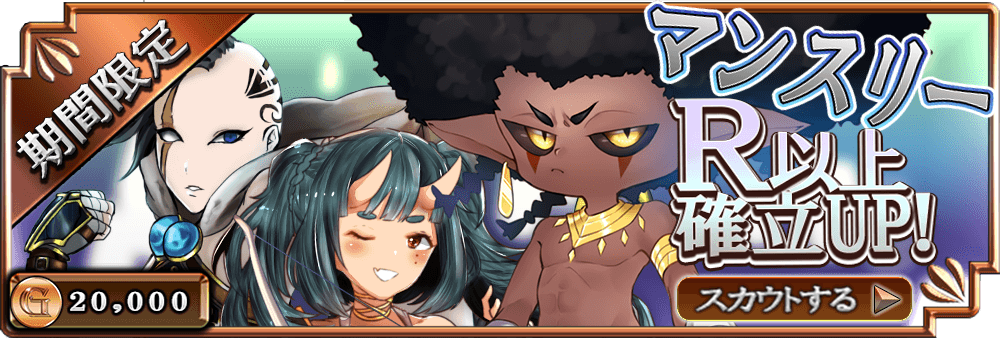
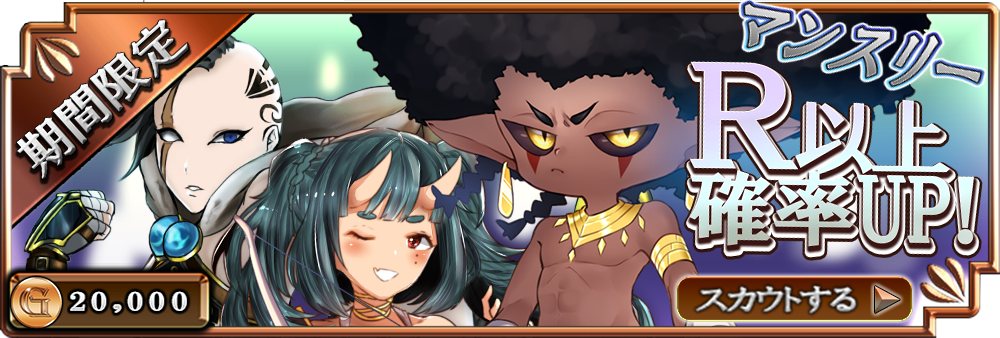
ガチャ画像差し替え＆名前変更ポップアップ修正(yoshida)

Changed region(s): [[0.62, 0.0, 1.0, 0.7988], [0.558, 0.6213, 0.589, 0.6509]]

diff --git a/public/css/changeUserName.css b/public/css/changeUserName.css
@@ -1,3 +1,7 @@
+.modal{
+	padding-top: 17vh;
+}
+
 .changeName_title{
     color: white;
     margin: 21px auto;

diff --git a/resources/views/popup/changeTeamName.blade.php b/resources/views/popup/changeTeamName.blade.php
@@ -12,7 +12,7 @@
 		});
 	});
 </script>
-
+<div style="padding-top: 10%">
 	<h1 class="changeName_title">剣闘士団名を変更できます</h1>
 	<h4 class="changeName_subtitle">※全角８文字以内</h4>
 	<div class="changeName_form_parent">
@@ -22,3 +22,4 @@
 			<input class="changeName_submit load" type="submit" name="btn" value="変更" disabled>
 		</form>
 	</div>
+</div>
